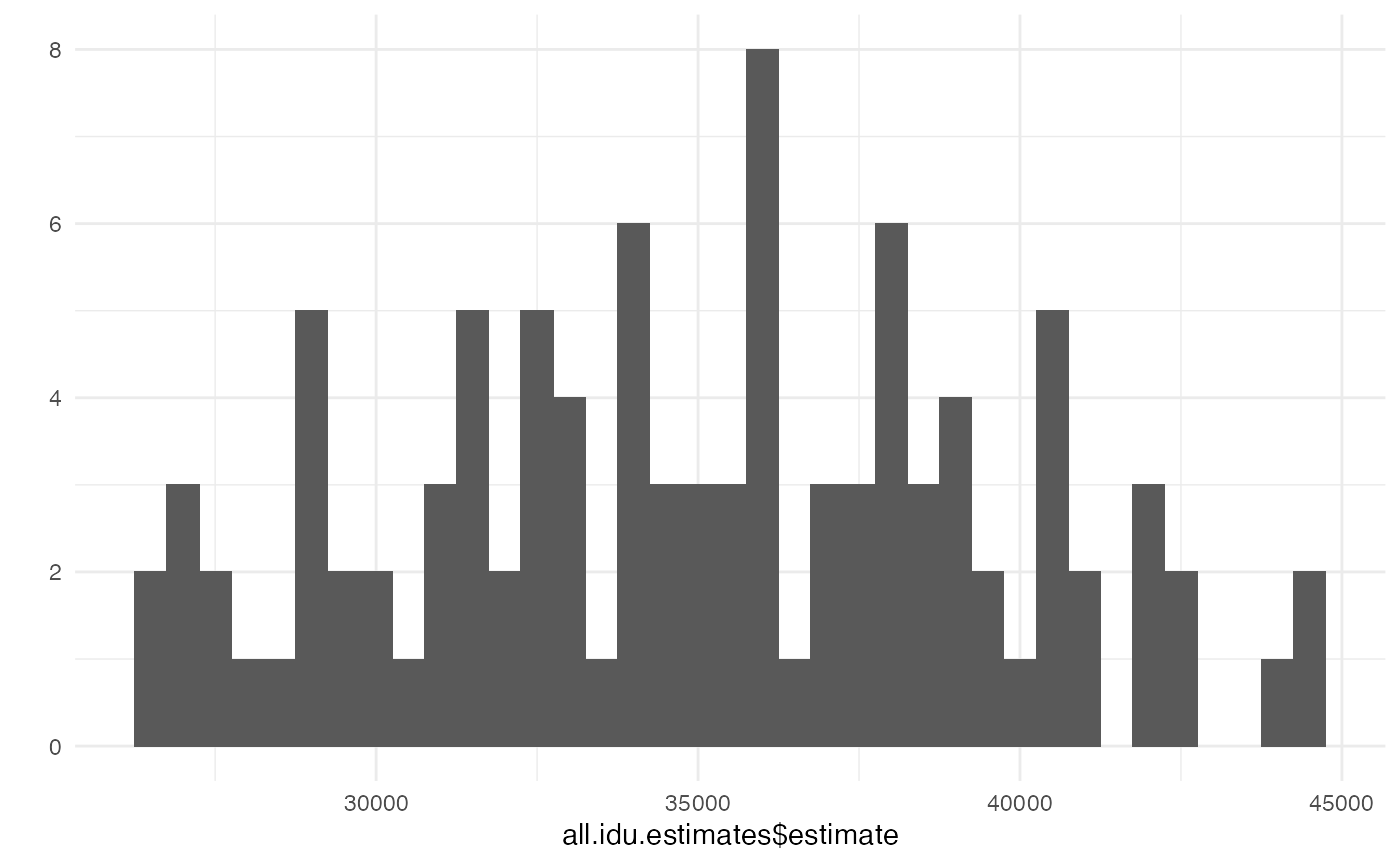
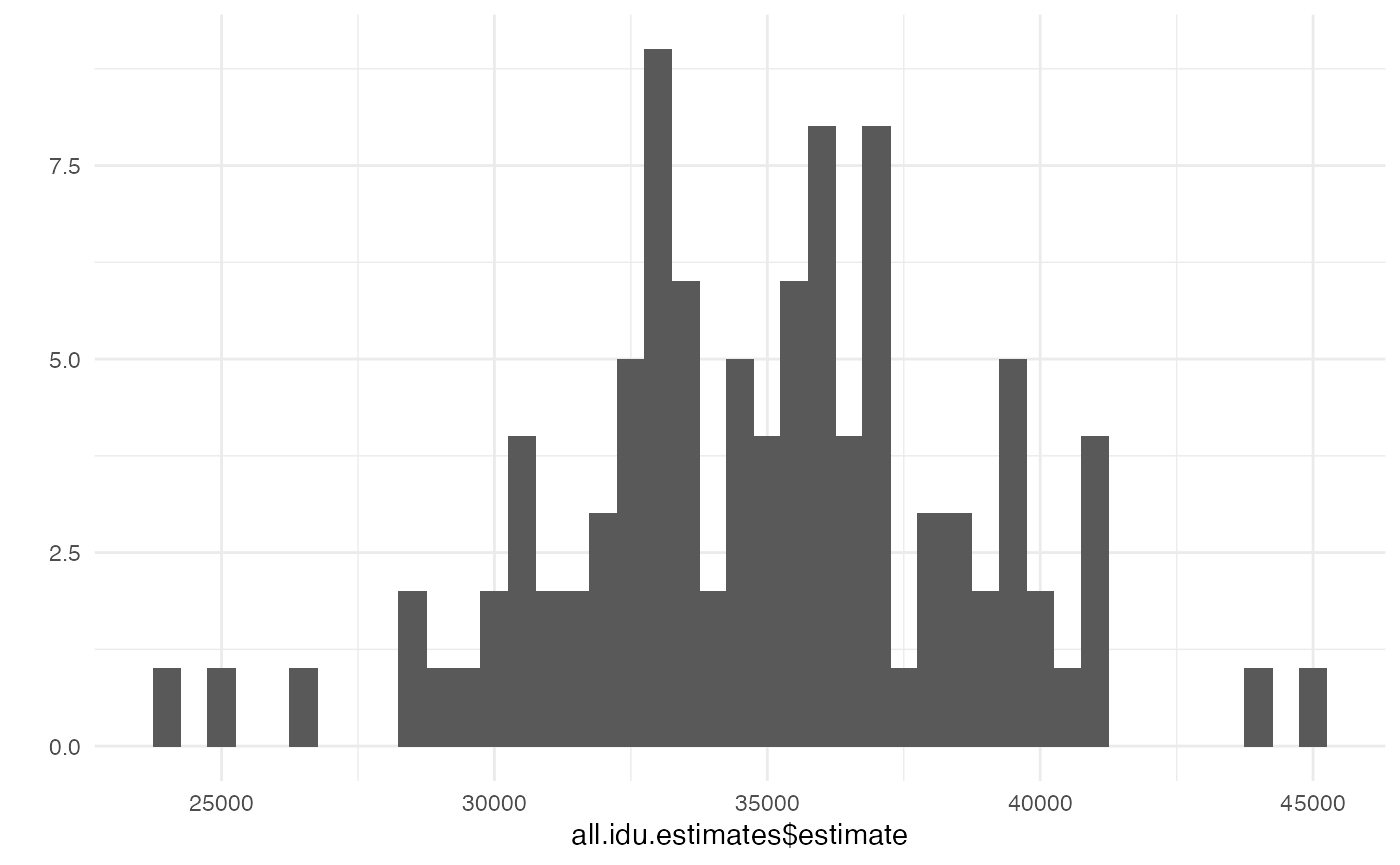
rebuilt site

diff --git a/docs/index.html b/docs/index.html
@@ -74,22 +74,6 @@
 <div class="page-header"><h1 class="hasAnchor">
 <a href="#summary" class="anchor"></a>Summary</h1></div>
 <p>The goal of the <code>networkreporting</code> package is to help people use network reporting methods.</p>
-<p>In traditional survey methods, respondents report about themselves. In network report methods, survey respondents report about the people to whom they are socially connected. Thus, network reporting methods can be thought of a generalization of traditional surveys. Many existing methods rely on this kind of indirect reporting and are thus network reporting methods:</p>
-<ul>
-<li>network scale-up method</li>
-<li>sibling method</li>
-<li>multiplicity sampling</li>
-<li>network surivial method</li>
-<li>generalized network scale-up method</li>
-<li>confidant method</li>
-<li>neighborhood method</li>
-</ul>
-<p>Although many of the methods that rely on indirect reporting have been regarded as distinct in the past, there is great value in developing a unified statistical framework to deal with common problems that all of these methods share. This unified framework also enables us to develop new network reporting methods. This package will help you use both existing network reporting methods and any new network reporting methods that you develop.</p>
-<p>For more information on network reporting methods see:</p>
-<ul>
-<li>Feehan, Dennis (2015) “Network reporting methods”, Ph.D. Dissertation. Office of Population Research, Princeton University.</li>
-</ul>
-<p>The development of this software was supported by a grant from the National Institutes of Health (R01-HD075666).</p>
 <div id="installing" class="section level2">
 <h2 class="hasAnchor">
 <a href="#installing" class="anchor"></a>Installing</h2>
@@ -126,6 +110,7 @@
 <div id="citation" class="section level2">
 <h2 class="hasAnchor">
 <a href="#citation" class="anchor"></a>Citation</h2>
+<p>The development of this software was supported by a grant from the National Institutes of Health (R01-HD075666).</p>
 <p>If you use our package for your research, please cite it so that we can continue to develop it.</p>
 <ul>
 <li>Feehan, Dennis M. and Salganik, Matthew J. (2014) “The networkreporting package.” <a href="http://cran.r-project.org/package=networkreporting" class="uri">http://cran.r-project.org/package=networkreporting</a>

diff --git a/docs/articles/network_scaleup.html b/docs/articles/network_scaleup.html
@@ -501,12 +501,12 @@ populations. Future versions of the package may include tools to help address th
 <span class="co">## summarize the results</span>
 <span class="fu"><a href="https://rdrr.io/r/base/summary.html">summary</a></span><span class="op">(</span><span class="va">all.idu.estimates</span><span class="op">$</span><span class="va">estimate</span><span class="op">)</span></pre></div>
 <pre><code>##    Min. 1st Qu.  Median    Mean 3rd Qu.    Max. 
-##   26327   31563   35119   35002   38297   44420</code></pre>
+##   24204   32736   34985   34937   37205   45006</code></pre>
 <p>To produce 95% intervals using the percentile method you can do something like this</p>
 <div class="sourceCode" id="cb32"><pre class="downlit">
 <span class="fu"><a href="https://rdrr.io/r/stats/quantile.html">quantile</a></span><span class="op">(</span><span class="va">all.idu.estimates</span><span class="op">$</span><span class="va">estimate</span>, probs<span class="op">=</span><span class="fu"><a href="https://rdrr.io/r/base/c.html">c</a></span><span class="op">(</span><span class="fl">0.025</span>, <span class="fl">0.975</span><span class="op">)</span><span class="op">)</span></pre></div>
 <pre><code>##     2.5%    97.5% 
-## 27001.95 43213.31</code></pre>
+## 27588.62 41182.12</code></pre>
 </div>
 <div id="internal-consistency-checks" class="section level2">
 <h2 class="hasAnchor">

diff --git a/README.md b/README.md
@@ -1,29 +1,10 @@
 [![Travis-CI Build
 Status](https://travis-ci.org/dfeehan/networkreporting.svg?branch=master)](https://travis-ci.org/dfeehan/networkreporting)
 
-
 Summary
 ================
 
 The goal of the `networkreporting` package is to help people use network reporting methods.
-
-In traditional survey methods, respondents report about themselves.  In network report methods, survey respondents report about the people to whom they are socially connected.  Thus, network reporting methods can be thought of a generalization of traditional surveys.  Many existing methods rely on this kind of indirect reporting and are thus network reporting methods:
-
-- network scale-up method
-- sibling method
-- multiplicity sampling
-- network surivial method
-- generalized network scale-up method
-- confidant method
-- neighborhood method
-
-Although many of the methods that rely on indirect reporting have been regarded as distinct in the past, there is great value in developing a unified statistical framework to deal with common problems that all of these methods share.  This unified framework also enables us to develop new network reporting methods.  This package will help you use both existing network reporting methods and any new network reporting methods that you develop.
-
-
-For more information on network reporting methods see: 
-- Feehan, Dennis (2015) "Network reporting methods", Ph.D. Dissertation. Office of Population Research, Princeton University.
-
-The development of this software was supported by a grant from the National Institutes of Health (R01-HD075666).
 
 Installing
 -----------
@@ -58,6 +39,8 @@ If you would like to suggest a feature or report a bug, please create an [issue]
 
 Citation
 -----------
+
+The development of this software was supported by a grant from the National Institutes of Health (R01-HD075666).
 
 If you use our package for your research, please cite it so that we can continue to develop it.
 
